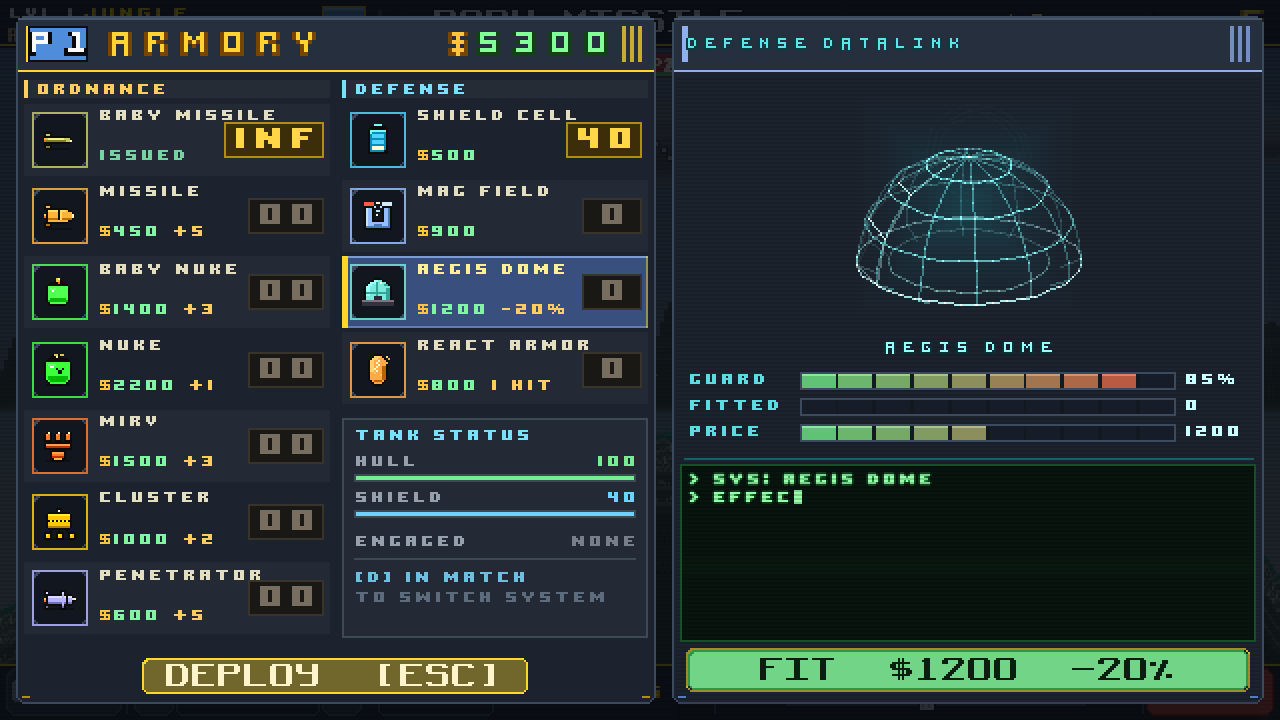
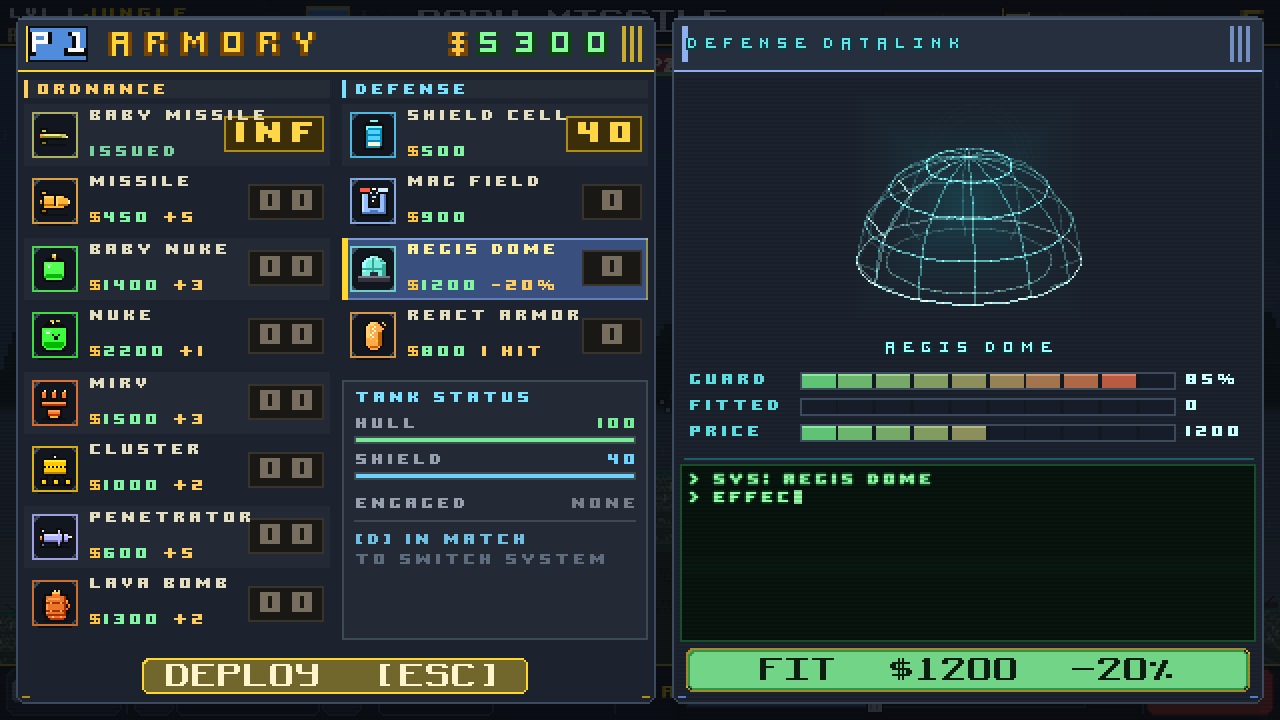
feat: arma incendiaria, partida guardada y una tanda de pulido
LAVA BOMB, el octavo obús. Su impacto es el segundo más flojo del arsenal a
propósito: lo que hace la faena es lo que derrama. El bidón revienta y el
compuesto corre por el suelo hasta 78 px por lado, subiendo y bajando las
laderas, prendiendo el terreno a su paso, comiéndose unos píxeles de suelo por
columna y dejando brasas que siguen latiendo cuando el fuego ya se ha ido.

Es un frente por columnas del heightmap, no un fluido: lavaLife_[x] son los
segundos que le quedan ardiendo a esa columna y contagia a las vecinas cada
18 ms. Como el terreno es una altura por columna, el frente sigue el relieve
solo. Vive en Game y no en ParticleSystem porque quema terreno y mata tanques.

La estela del obús no se deshacía. ParticleSystem::Update sólo se llamaba en
las fases EXPLOSION y NEXT_TURN, así que mientras el obús volaba su estela se
dibujaba pero no envejecía: alfa pleno y sin consumirse. Ahora se actualiza una
vez por fotograma en todas las fases, y la estela pasa a un anillo propio
(TrailPuff) fuera del pool general — el anillo recicla siempre la bocanada más
antigua, así que el rastro se deshace por la cola en vez de desaparecer a
trozos cuando un impacto grande barre el pool.

Nadie hereda la jugada anterior: QuenchTransients acorta la vida de todo lo
efímero durante la transición y ClearTransient en NextTurn confirma que no
queda estela, metralla, humo ni fuego. Los cráteres quemados y los escombros
asentados sobreviven: son escenario, no efecto.
[…]

diff --git a/components/Arsenal.tsx b/components/Arsenal.tsx
@@ -136,6 +136,33 @@ const weapons = [
       </div>
     ),
   },
+  {
+    id: 'lava_bomb', name: 'Lava Bomb', cost: 1300, costLabel: '1,300 CR · \u00d72 BUNDLE', costColor: '#ff6a1e',
+    dmg: 25, rad: 18, bundle: 2, clusters: 0, pen: false, barColor: '#ff6a1e',
+    badge: 'BURNS THE GROUND',
+    desc: 'The impact is the weakest part. The drum splits and pyrogel runs downhill, setting the ground alight for 78 px either side — it eats terrain as it goes and leaves it burning. A near miss still kills.',
+    art: (
+      <div className="relative w-24 h-20 flex items-end justify-center">
+        <div className="absolute bottom-5 w-10 h-12 rounded-md" style={{ background: 'linear-gradient(to right,#8a4418,#c87030,#8a4418)', filter: 'drop-shadow(0 0 8px #ff6a1e88)' }} />
+        <div className="absolute bottom-14 w-6 h-2 rounded-sm" style={{ background: 'linear-gradient(to right,#ffb040,#ff6a1e)' }} />
+        {[0, 1, 2, 3, 4, 5].map((i) => (
+          <motion.div
+            key={i}
+            className="absolute bottom-0 rounded-full"
+            style={{
+              left: `${12 + i * 14}%`,
+              width: 8 - (i % 3),
+              height: 8 - (i % 3),
+              background: i % 2 ? '#ffb03c' : '#ff5a14',
+            }}
+            animate={{ opacity: [0.25, 1, 0.25], y: [0, -7 - i, 0] }}
+            transition={{ duration: 1.1 + i * 0.13, repeat: Infinity, ease: 'easeInOut' }}
+          />
+        ))}
+        <div className="absolute bottom-0 w-20 h-1.5 rounded-full" style={{ background: 'linear-gradient(to right,transparent,#ff6a1e,transparent)' }} />
+      </div>
+    ),
+  },
 ];
 
 // Real values — src/Core/Constants.h `DEFENSES[]`. The armory's right-hand
@@ -205,7 +232,7 @@ export default function Arsenal() {
             ORDNANCE
           </div>
           <h2 className="font-display text-2xl md:text-4xl text-cream tracking-tight uppercase">Arsenal</h2>
-          <p className="font-mono text-sm text-muted mt-3">All 7 weapons, real numbers — select one to inspect</p>
+          <p className="font-mono text-sm text-muted mt-3">All 8 weapons, real numbers — select one to inspect</p>
           <p className="font-mono text-xs text-muted-2 mt-2">
             In game each one is built as a live wireframe — the MIRV bus
             separates its warheads, the cluster canister spills its bomblets —

diff --git a/components/Mechanics.tsx b/components/Mechanics.tsx
@@ -1,6 +1,6 @@
 'use client';
 import { motion } from 'framer-motion';
-import { Zap, Layers, Music, CloudLightning, ShoppingCart, Shield, Wrench, Crosshair, SlidersHorizontal, Timer } from 'lucide-react';
+import { Zap, Layers, Music, CloudLightning, ShoppingCart, Shield, Wrench, Crosshair, SlidersHorizontal, Timer, Flame, Save } from 'lucide-react';
 
 const cards = [
   {
@@ -65,6 +65,20 @@ const cards = [
     title: 'Turn Clock & Combat Read',
     desc: 'Switch on a 15, 30 or 60 second turn clock and the shot leaves the barrel when it runs out, aimed however you left it — a drain bar under the HUD and a countdown that only appears in the last ten seconds. Every hit now writes what it actually cost: hull damage in red, shield in blue, a cancelled hit on a reactive plate in amber. A callsign banner sweeps in on your turn and on every elimination, so a six-tank squad never leaves you hunting for whose move it is.',
     accent: '#ffb92e',
+    span: 'col-span-1',
+  },
+  {
+    icon: Flame,
+    title: 'Ground That Catches Fire',
+    desc: 'The Lava Bomb is the only shell whose impact is the least of it. The drum splits and pyrogel runs along the surface, taking a column of ground at a time out to 78 px on each side — up slopes, down into gullies, following whatever the heightmap does. Anything standing in the front burns for as long as it stays there, the fire eats the terrain down as it passes, and what it leaves behind is embers still glowing in the soil long after the flames have gone. A shot that falls short can still finish the job.',
+    accent: '#ff6a1e',
+    span: 'col-span-1',
+  },
+  {
+    icon: Save,
+    title: 'Stop Mid-Run, Pick It Up Later',
+    desc: 'Pause and save between shots and the run waits for you: the level, the round, whose turn it is, every crater already carved into the terrain and every shell and defence system still in each tank. CONTINUE appears on the main menu when there is something to come back to. The save is a continuation point, not a rewind — loading it consumes it, so a run you walk away from is still a run you can lose.',
+    accent: '#8fb4d6',
     span: 'col-span-1',
   },
   {

diff --git a/components/Screenshots.tsx b/components/Screenshots.tsx
@@ -62,6 +62,13 @@ const shots = [
     span: 'col-span-1',
   },
   {
+    src: '/shots/lava.png',
+    title: 'Lava Bomb',
+    desc: 'Pyrogel running along the ground, burning the terrain down as it spreads',
+    accent: '#ff6a1e',
+    span: 'col-span-1 md:col-span-2',
+  },
+  {
     src: '/shots/options.png',
     title: 'Settings',
     desc: 'Four tabs — audio, video, game and accessibility — each option explained in place',
